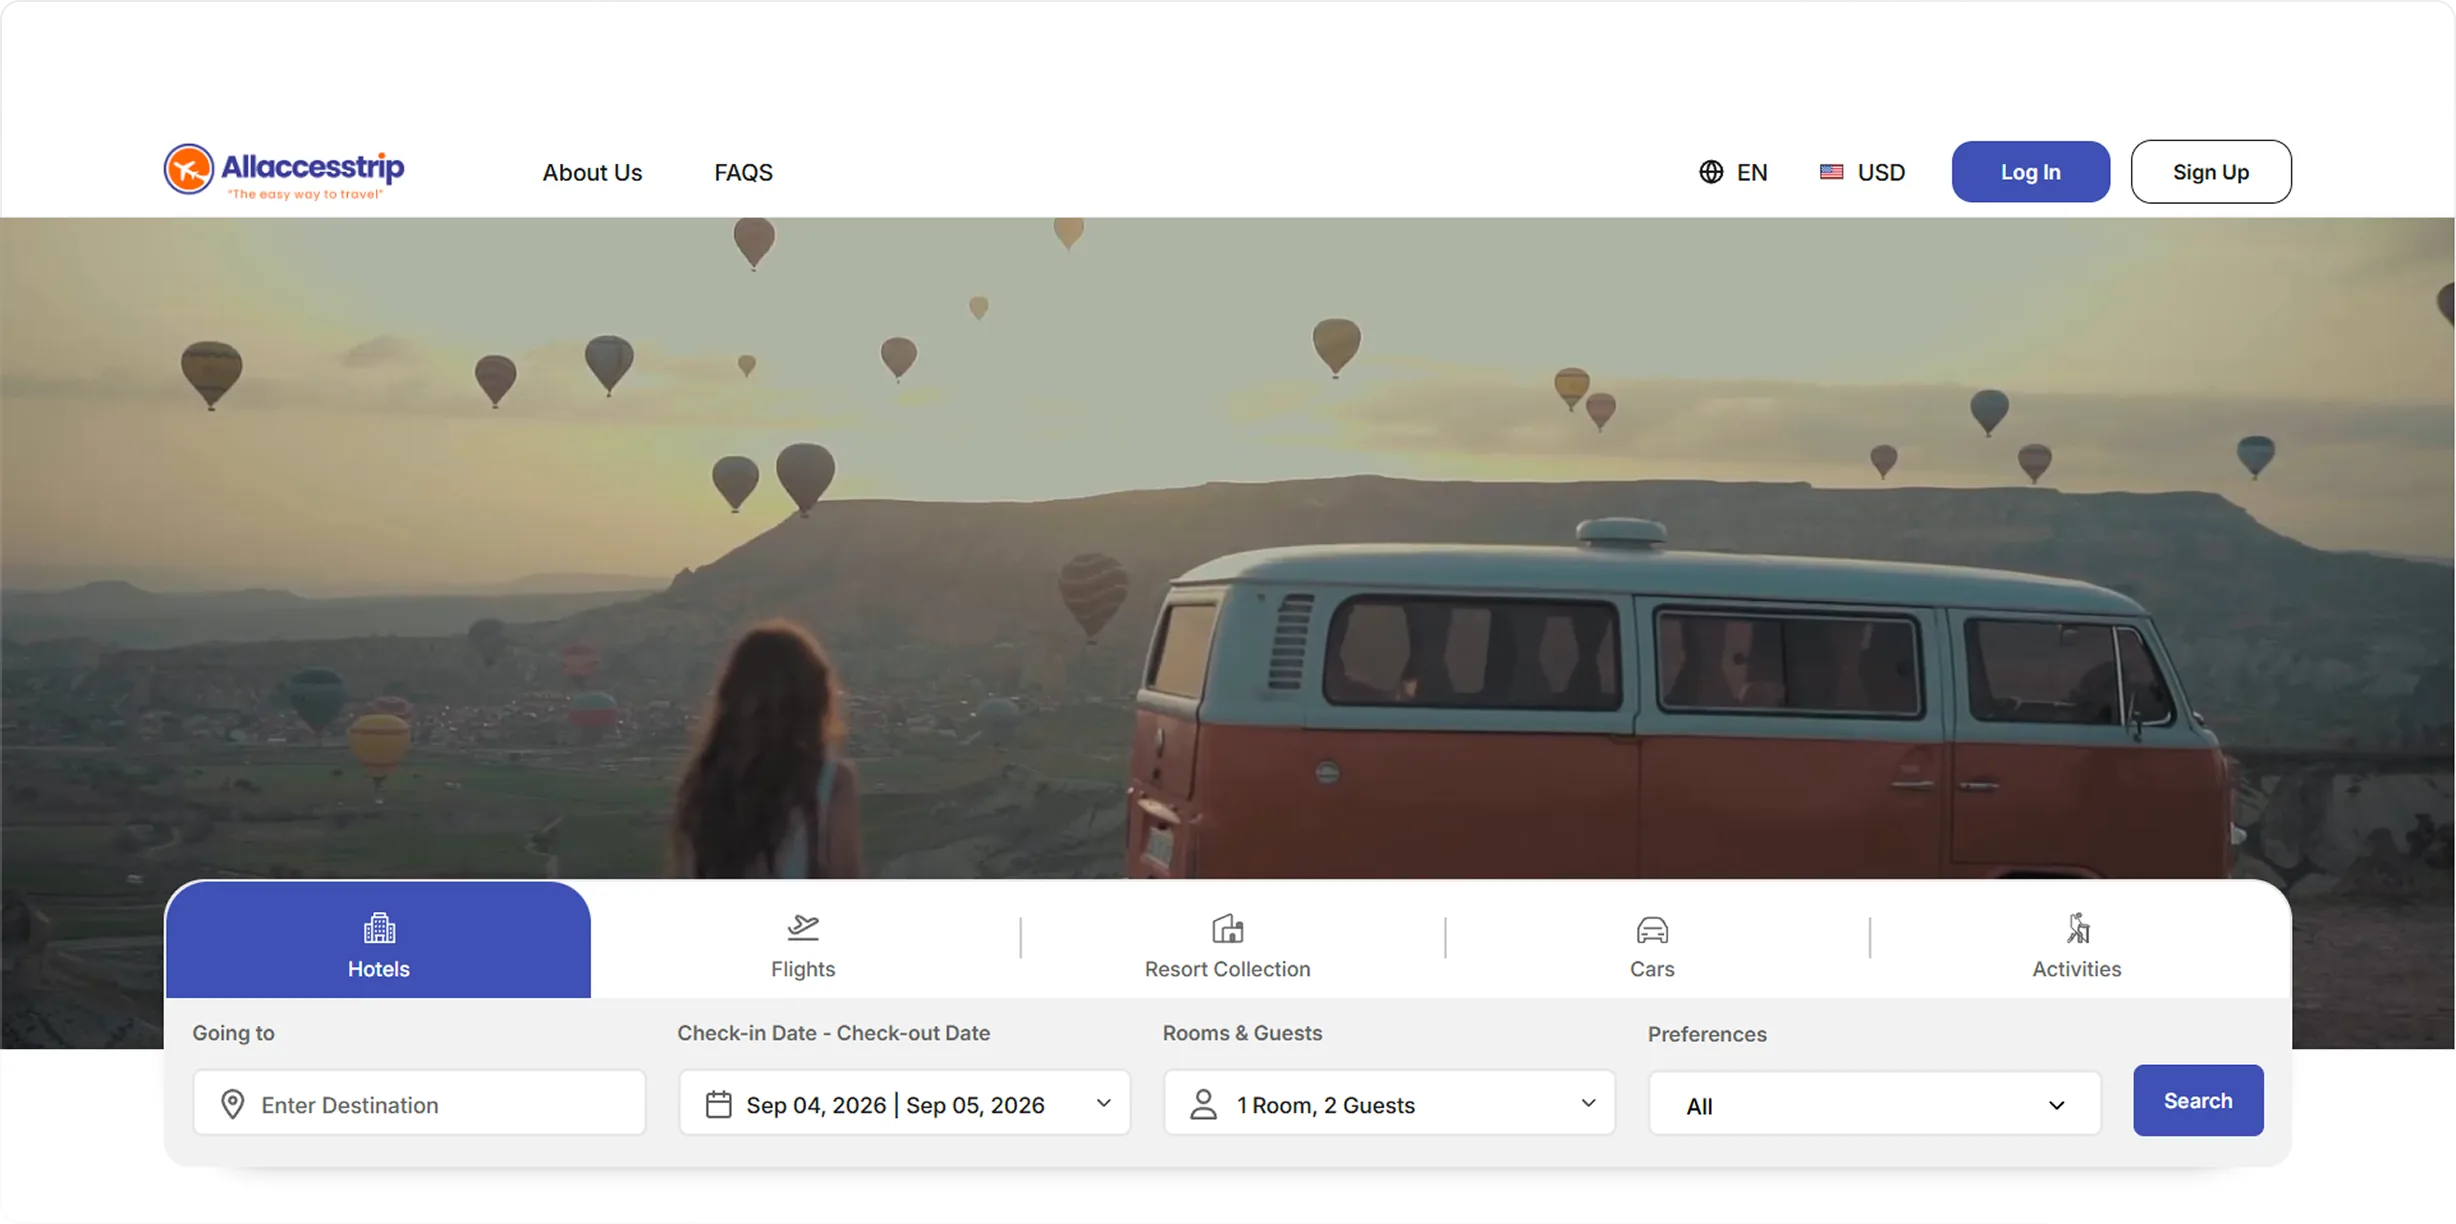
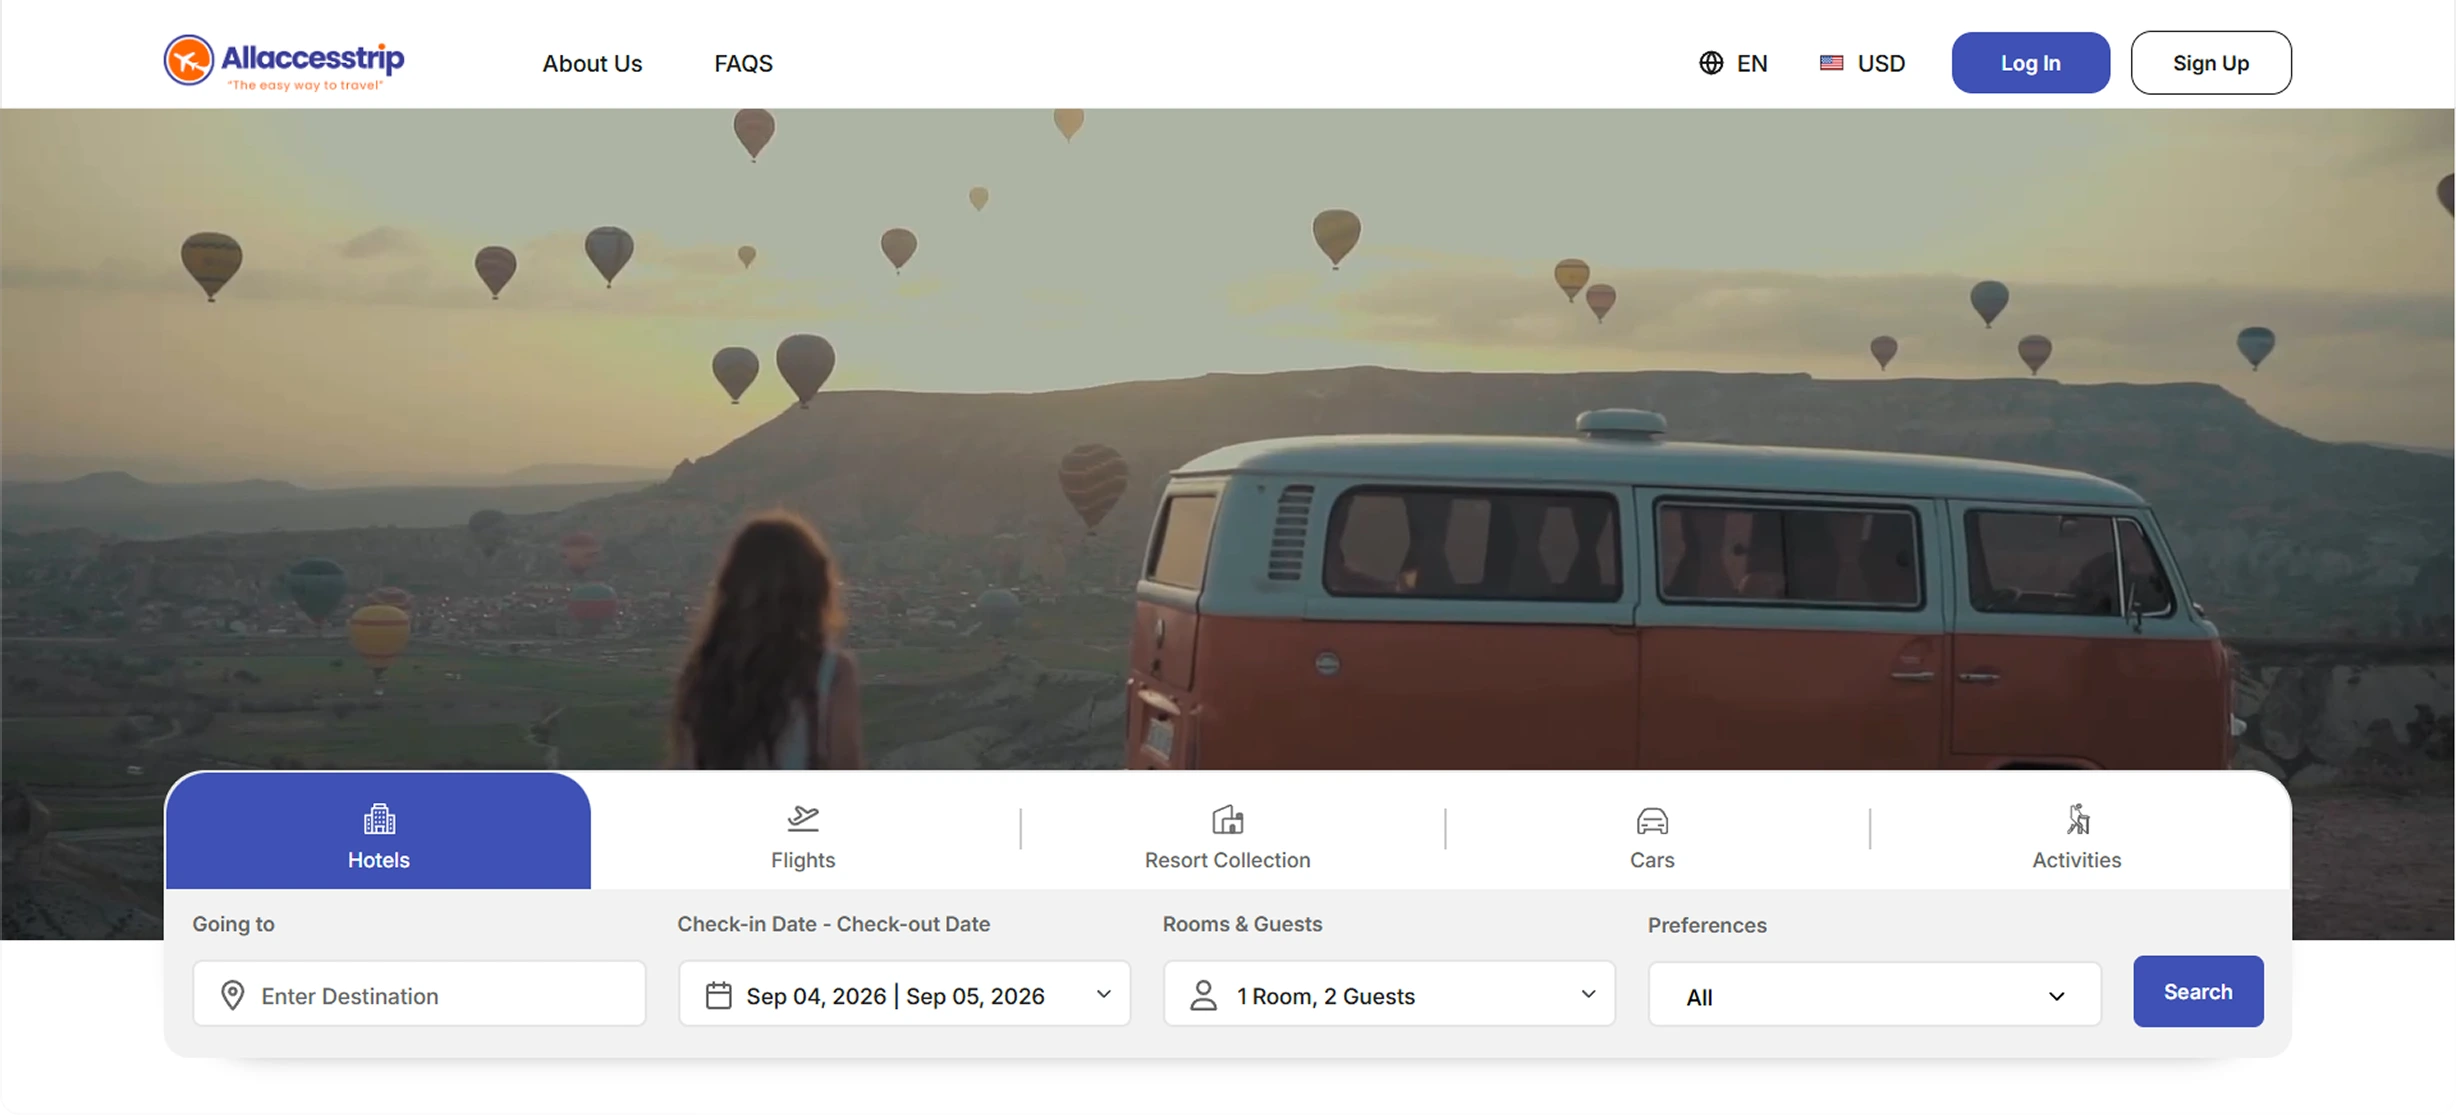
all page update css

diff --git a/src/components/WorkCaseStudyTemplate/work-case-study.css b/src/components/WorkCaseStudyTemplate/work-case-study.css
@@ -1406,11 +1406,13 @@ body .backimage-boy {
     flex-wrap: wrap;
   }
   
-  .wvt-hero__left,
-  .wvt-hero__right {
+  .wvt-hero__left {
     max-width: 31.25vw;
   }
-  
+  .wvt-hero__right {
+    max-width: 35.156vw;
+  }
+
   .wvt-badges {
     display: flex;
     flex-wrap: wrap;
@@ -1507,7 +1509,7 @@ body .backimage-boy {
   .wvt-hero__desc {
     font-family: var(--font-heading);
     font-weight: 500;
-    font-size: 0.8333vw;
+    font-size: 0.9375vw;
     line-height: 1.5;
     color: var(--color-white);
   }
@@ -1693,10 +1695,10 @@ body .backimage-boy {
   
   .wvt-detail-item__desc {
     margin-top: 0.9375vw;
-    max-width: 52.0833vw;
+    max-width: 58.594vw;
     font-family: var(--font-heading);
     font-weight: 500;
-    font-size: 0.8333vw;
+    font-size: 0.9375vw;
     line-height: 1.5;
     color: var(--color-white);
   }
@@ -1818,10 +1820,10 @@ body .backimage-boy {
   
   .wvt-section-desc {
     margin-top: 0.8333vw;
-    max-width:52.0833vw;
+    max-width: 58.594vw;
     font-family: var(--font-heading);
     font-weight: 500;
-    font-size: 0.8333vw;
+    font-size: 0.9375vw;
     line-height: 1.5;
     color: var(--color-white);
   }
@@ -1896,7 +1898,7 @@ body .backimage-boy {
     margin-top: 1.4583vw;
     font-family: var(--font-heading);
     font-weight: 500;
-    font-size: 0.8333vw;
+    font-size: 0.9375vw;
     line-height: 1.5;
     color: var(--color-white);
   }
@@ -2158,7 +2160,7 @@ body .backimage-boy {
     gap: 0.5208vw;
     font-family: var(--font-heading);
     font-weight: 500;
-    font-size: 0.8333vw;
+    font-size: 0.9375vw;
     color: var(--color-white);
   }
   
@@ -2427,7 +2429,7 @@ body .backimage-boy {
     position: relative;
     z-index: 1;
     order: 1;
-    max-width: 32.4479vw;
+    max-width: 36.504vw;
     display: flex;
     flex-direction: column;
     gap: 1.0417vw;
@@ -2444,7 +2446,7 @@ body .backimage-boy {
   .wvt-closing__desc {
     font-family: var(--font-heading);
     font-weight: 500;
-    font-size: 0.8333vw;
+    font-size: 0.9375vw;
     line-height: 1.5;
     color: var(--color-white);
   }

diff --git a/src/styles/global.css b/src/styles/global.css
@@ -1554,6 +1554,7 @@ a.navbar__cta--mobile {
   border-radius: 12px;
   background: linear-gradient(168.65deg, rgba(0,0,0,0.8) -2.45%, rgba(22,22,22,0.9) 102.09%);
   transition: background 0.4s ease, opacity 0.8s ease, transform 0.8s ease;
+  cursor: pointer;
 }
 .plan-card--active {
   background: var(--color-bg);
@@ -2691,8 +2692,8 @@ a.navbar__cta--mobile {
     width: 30.2083vw;
   }
   .section-subtitle {
-    font-size: 0.833vw;
-    line-height: 1.25vw;
+    font-size: 0.9375vw;
+    line-height: 1.406vw;
   }
   .btn {
     gap: 0.625vw;
@@ -2840,9 +2841,9 @@ a.navbar__cta--mobile {
   }
   .solutions__desc {
     margin-top: 1.042vw;
-    max-width: 26.406vw;
-    font-size: 0.833vw;
-    line-height: 1.25vw;
+    max-width: 29.707vw;
+    font-size: 0.9375vw;
+    line-height: 1.406vw;
   }
   .solutions__copy .btn {
     margin-top: 2.083vw;
@@ -3170,7 +3171,7 @@ a.navbar__cta--mobile {
   }
   .pricing__note {
     margin-top: 3.854vw;
-    font-size: 0.833vw;
+    font-size: 0.9375vw;
   }
   .pricing__cta {
     margin-top: 2.969vw;
@@ -3194,8 +3195,8 @@ a.navbar__cta--mobile {
   }
   .faq__intro-desc {
     margin-top: 0.938vw;
-    font-size: 0.833vw;
-    width: 11.771vw;
+    font-size: 0.9375vw;
+    width: 13.242vw;
   }
   .faq__intro .btn {
     margin-top: 1.667vw;
@@ -3446,9 +3447,9 @@ a.navbar__cta--mobile {
   }
   .hero__desc {
     margin-top: 1.667vw;
-    max-width: 33.646vw;
-    font-size: 0.833vw;
-    line-height: 1.25vw;
+    max-width: 37.852vw;
+    font-size: 0.9375vw;
+    line-height: 1.406vw;
   }
   .hero__actions {
     gap: 1.354vw;

diff --git a/src/pages/About/about.css b/src/pages/About/about.css
@@ -1487,7 +1487,7 @@
   }
 
   .about-hero__content {
-    max-width: 46.875vw;
+    max-width: 52.734vw;
   }
 
   .about-hero__title {
@@ -1496,7 +1496,7 @@
   }
 
   .about-hero__desc {
-    font-size: 0.8333vw;
+    font-size: 0.9375vw;
     margin-bottom: 2.8646vw;
   }
 
@@ -1537,7 +1537,7 @@
 
   .about-desc {
     margin: 1.9792vw 0 0;
-    font-size: 0.8333vw;
+    font-size: 0.9375vw;
   }
 
   .about-desc + .about-desc {
@@ -1867,9 +1867,11 @@
     filter: blur(0.5208vw);
   }
 
-  .about-ai .about-title,
-.about-ai .about-desc {
+  .about-ai .about-title {
     max-width: 34.375vw;
+  }
+  .about-ai .about-desc {
+    max-width: 38.672vw;
   }
 
   .about-ai__list {
@@ -1950,7 +1952,7 @@
 
   .about-risk__note {
     margin: 2.9167vw auto 0;
-    font-size: 0.8333vw;
+    font-size: 0.9375vw;
   }
 
   .about-risk__note-link {

diff --git a/src/components/Pricing.tsx b/src/components/Pricing.tsx
@@ -29,12 +29,25 @@ function PlanCard({
 }) {
   const reveal = useReveal('left');
 
+  const handleClick = () => {
+    document.getElementById('contact')?.scrollIntoView({ behavior: 'smooth' });
+  };
+
   return (
     <div
       className={`plan-card${isActive ? ' plan-card--active' : ''} ${reveal.className}`}
       ref={reveal.ref}
       onMouseEnter={onEnter}
       onMouseLeave={onLeave}
+      onClick={handleClick}
+      role="button"
+      tabIndex={0}
+      onKeyDown={(e) => {
+        if (e.key === 'Enter' || e.key === ' ') {
+          e.preventDefault();
+          handleClick();
+        }
+      }}
     >
       <div className="plan-card__glow" />
       <span className="plan-card__category">{categoryLabel}</span>

diff --git a/src/components/WorkCaseStudyTemplate/WorkCaseStudyTemplate.tsx b/src/components/WorkCaseStudyTemplate/WorkCaseStudyTemplate.tsx
@@ -236,7 +236,7 @@ export default function WorkCaseStudyTemplate({
 
             <div className={`wvt-capabilities ${capabilitiesReveal.className}`} ref={capabilitiesReveal.ref}>
               <span className="wvt-eyebrow-number">04 — {t('sections.coreCapabilities')}</span>
-              <p className="wvt-section-desc">{data.capabilities.desc}</p>
+              {data.capabilities.desc && <p className="wvt-section-desc">{data.capabilities.desc}</p>}
 
               <div className="wvt-capabilities__grid">
                 {data.capabilities.items.map((c) => (

diff --git a/src/pages/MobileApplication/mobile-application.css b/src/pages/MobileApplication/mobile-application.css
@@ -937,9 +937,9 @@
   }
 
   .mobileapp-section-copy {
-    max-width: 46.3542vw;
+    max-width: 52.149vw;
     margin: 1.0417vw auto 0;
-    font-size: 0.8333vw;
+    font-size: 0.9375vw;
   }
 
   .mobileapp-card {
@@ -1006,8 +1006,8 @@
 
   .mobileapp-hero__desc {
     margin-top: 1.25vw;
-    max-width: 28.75vw;
-    font-size: 0.8333vw;
+    max-width: 32.344vw;
+    font-size: 0.9375vw;
   }
 
   .mobileapp-hero__actions {

diff --git a/src/pages/SaasDevelopment/saas-development.css b/src/pages/SaasDevelopment/saas-development.css
@@ -926,8 +926,8 @@
   }
 
   .saas-section-copy {
-    max-width: 43.6458vw;
-    font-size: 0.8333vw;
+    max-width: 49.1015vw;
+    font-size: 0.9375vw;
   }
 
   .saas-card {
@@ -994,9 +994,9 @@
 
   .saas-hero__desc {
     margin-top: 1.25vw;
-    max-width: 28.75vw;
-    font-size: 0.8333vw;
-    width: 26.0417vw;
+    max-width: 32.344vw;
+    font-size: 0.9375vw;
+    width: 29.297vw;
   }
 
   .saas-hero__actions {

diff --git a/src/pages/Partners/partners.css b/src/pages/Partners/partners.css
@@ -2912,8 +2912,8 @@
   }
 
   .partners-hero__desc {
-    max-width: 31.1979vw;
-    font-size: 0.8333vw;
+    max-width: 35.0977vw;
+    font-size: 0.9375vw;
     margin: 0.9375vw 0 0;
   }
 
@@ -4252,8 +4252,8 @@
 
   .partners-fulfillment__note {
     margin-top: 4.5313vw;
-    max-width: 56.4583vw;
-    font-size: 0.8333vw;
+    max-width: 63.5156vw;
+    font-size: 0.9375vw;
     letter-spacing: 0.0104vw;
   }
 

diff --git a/src/pages/AIAgents/ai-agents.css b/src/pages/AIAgents/ai-agents.css
@@ -1198,8 +1198,8 @@
   }
 
   .agents-section-copy {
-    max-width: 43.6458vw;
-    font-size: 0.8333vw;
+    max-width: 49.1015vw;
+    font-size: 0.9375vw;
   }
 
   .agents-card {
@@ -1269,8 +1269,8 @@
 
   .agents-hero__desc {
     margin-top: 1.25vw;
-    max-width: 28.75vw;
-    font-size: 0.8333vw;
+    max-width: 32.344vw;
+    font-size: 0.9375vw;
   }
 
   .agents-hero__actions {

diff --git a/src/pages/WorkBuketiFinancialConsulting/WorkBuketiFinancialConsultingPage.tsx b/src/pages/WorkBuketiFinancialConsulting/WorkBuketiFinancialConsultingPage.tsx
@@ -51,7 +51,7 @@ export default function WorkBuketiFinancialConsultingPage() {
       serviceTags: t('sidebar.serviceTags', { returnObjects: true }) as string[],
     },
     capabilities: {
-      desc: t('capabilities.desc'),
+      desc: '',
       items: capabilityItems.map((item, index) => ({
         number: String(index + 1).padStart(2, '0'),
         title: item.title,

diff --git a/src/pages/AIAutomation/ai-automation.css b/src/pages/AIAutomation/ai-automation.css
@@ -1273,8 +1273,8 @@
 
   .ai-automation-hero__desc {
     margin-top: 1.0417vw;
-    max-width: 29.1667vw;
-    font-size: 0.8333vw;
+    max-width: 32.8125vw;
+    font-size: 0.9375vw;
   }
 
   .ai-automation-hero__actions {
@@ -1403,7 +1403,7 @@
   }
 
   .ai-automation-section-copy {
-    font-size: 0.8333vw;
+    font-size: 0.9375vw;
   }
 
   .ai-automation-card {

diff --git a/src/pages/WorkSolidRockLeadership/WorkSolidRockLeadershipPage.tsx b/src/pages/WorkSolidRockLeadership/WorkSolidRockLeadershipPage.tsx
@@ -56,7 +56,7 @@ export default function WorkSolidRockLeadershipPage() {
       serviceTags: t('sidebar.serviceTags', { returnObjects: true }) as string[],
     },
     capabilities: {
-      desc: t('capabilities.desc'),
+      desc: '',
       items: capabilityItems.map((item, index) => ({
         number: String(index + 1).padStart(2, '0'),
         title: item.title,
